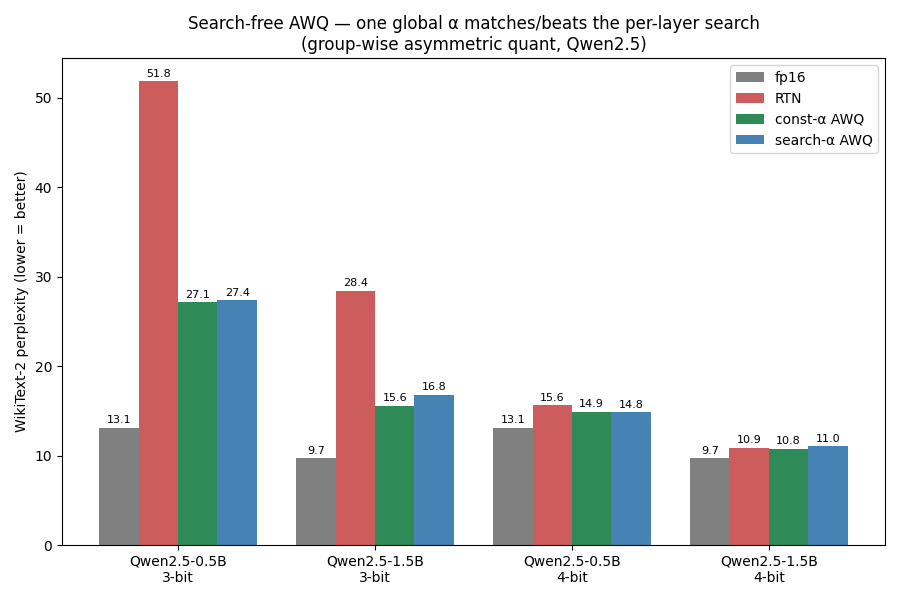
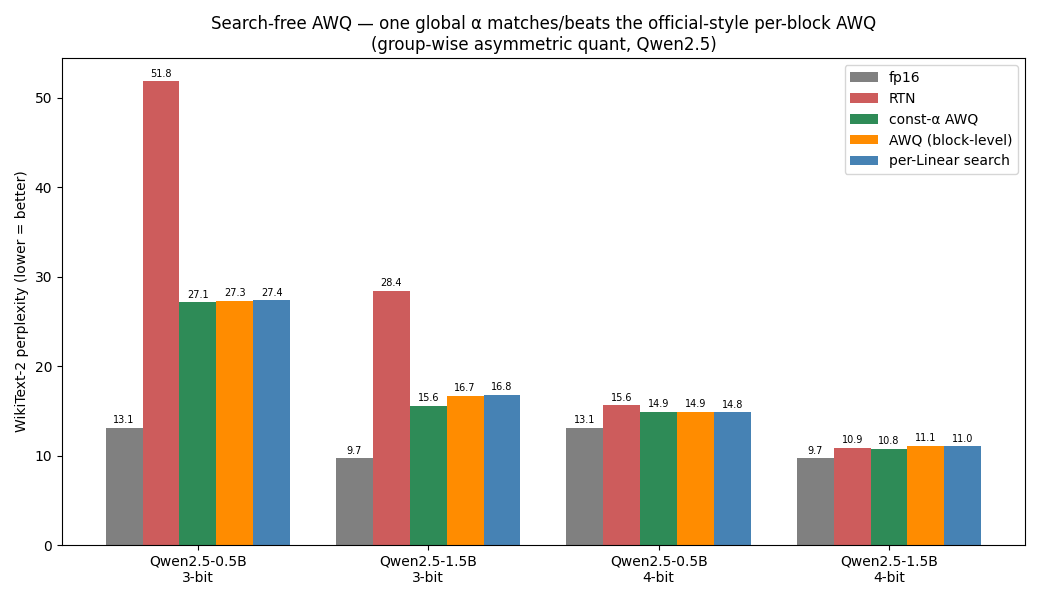
Add faithful block-level AWQ; const-α matches/beats it on perplexity
Since the official llm-awq repo's scale search miscomputes on Qwen2.5 + current
transformers (its standalone-submodule forward is brittle across versions; its
RTN path does match ours, validating the quantizer), reimplement AWQ's actual
block-level grouping faithfully: one shared scaling alpha per group of linears
that read the same input (q/k/v together, gate/up together, o_proj/down_proj
each alone), argmin of the group's combined output error.

Result (WikiText-2 ppl, group-wise asymmetric, 100 windows): a single global
alpha matches or beats the official-style block-level AWQ in every config, and
clearly wins at 3-bit (1.5B: const 15.6 vs block-AWQ 16.7; 0.5B: 27.1 vs 27.3);
at 4-bit AWQ barely helps over RTN. So AWQ's per-layer/per-block scale search
buys nothing over one tuned constant alpha at the model level on these models.

diff --git a/scripts/perplexity_eval.py b/scripts/perplexity_eval.py
@@ -19,6 +19,7 @@ from __future__ import annotations
 import argparse
 import json
 import sys
+from collections import defaultdict
 from functools import partial
 from pathlib import Path
 
@@ -30,8 +31,31 @@ sys.path.insert(0, str(Path(__file__).resolve().parents[1] / "src"))
 from awq_diag.config import DiagConfig  # noqa: E402
 from awq_diag.data import get_calibration_texts  # noqa: E402
 from awq_diag.hooks import ActivationCollector, AWQErrorCollector  # noqa: E402
-from awq_diag.model_utils import iter_block_linears, load_model_and_tokenizer, set_seed  # noqa: E402
+from awq_diag.model_utils import (  # noqa: E402
+    iter_block_linears, layer_idx_from_name, load_model_and_tokenizer, module_type_from_name, set_seed)
 from awq_diag.quant import awq_channel_scales, awq_dequant_weight, pseudo_quantize_groupwise  # noqa: E402
+
+# official AWQ shares ONE scale per group of linears that read the same input
+_GROUP = {"q_proj": "attn_in", "k_proj": "attn_in", "v_proj": "attn_in", "o_proj": "attn_out",
+          "gate_proj": "mlp_in", "up_proj": "mlp_in", "down_proj": "mlp_out"}
+
+
+def block_group_alpha(acc: dict, bit: int, alphas) -> dict:
+    """Faithful (block-level) AWQ alpha: one shared alpha per (layer, group), where q/k/v share an
+    input and gate/up share an input. Argmin of the group's summed output error — the official
+    grouping, but using each group's combined linear-output error (robust, no standalone attention).
+    """
+    groups = defaultdict(list)
+    for name in acc:
+        groups[(layer_idx_from_name(name), _GROUP.get(module_type_from_name(name), name))].append(name)
+    out = {}
+    for members in groups.values():
+        errs = {a: sum(acc[m][bit][a][0] for m in members) / max(sum(acc[m][bit][a][1] for m in members), 1e-12)
+                for a in alphas}
+        a_star = min(errs, key=errs.get)
+        for m in members:
+            out[m] = a_star
+    return out
 
 
 @torch.no_grad()
@@ -50,15 +74,15 @@ def eval_ppl(model, enc, device, seq_len=2048, max_windows=None) -> float:
 
 
 @torch.no_grad()
-def quantize_model(model, act_scales, bit, gs, strategy, best_alpha=None, const_alpha=None):
+def quantize_model(model, act_scales, bit, gs, alpha_map=None):
+    """alpha_map=None -> plain RTN; else AWQ-scale each linear by its alpha (per-name)."""
     quantizer = partial(pseudo_quantize_groupwise, group_size=gs, zero_point=True)
     for name, module in iter_block_linears(model):
         Wf = module.weight.data.float()
-        if strategy == "rtn":
+        if alpha_map is None:
             Wq = quantizer(Wf, bit)
         else:
-            a = const_alpha if strategy == "const_awq" else best_alpha[name]
-            s = awq_channel_scales(act_scales[name].to(Wf.device), a)
+            s = awq_channel_scales(act_scales[name].to(Wf.device), alpha_map[name])
             Wq = awq_dequant_weight(Wf, bit, s, quantizer=quantizer)
         module.weight.data.copy_(Wq.to(module.weight.dtype))
 
@@ -119,29 +143,30 @@ def main() -> None:
         for n, m in iter_block_linears(model):
             m.weight.data.copy_(orig[n].to(m.weight.device, m.weight.dtype))
 
+    const_map = {n: const_alpha for n in best_alpha}
+    block_alpha = block_group_alpha(awq.acc, args.bit, alphas)   # faithful block-level AWQ
+
     print("[4/5] evaluating perplexity per strategy ...")
     results = {}
-    strategies = ["fp16", "rtn", "const_awq", "search_awq"]
+    amaps = {"rtn": None, "const_awq": const_map, "block_awq": block_alpha, "search_awq": best_alpha}
+    strategies = ["fp16", "rtn", "const_awq", "block_awq", "search_awq"]
     for strat in strategies:
         restore()
         if strat != "fp16":
-            quantize_model(model, act_scales, args.bit, args.group_size, strat,
-                           best_alpha=best_alpha, const_alpha=const_alpha)
-        ppl = eval_ppl(model, enc, device, args.seq_len, args.max_windows)
-        results[strat] = ppl
-        print(f"      {strat:<12} ppl = {ppl:.3f}")
+            quantize_model(model, act_scales, args.bit, args.group_size, amaps[strat])
+        results[strat] = eval_ppl(model, enc, device, args.seq_len, args.max_windows)
+        print(f"      {strat:<12} ppl = {results[strat]:.3f}")
     restore()
 
     fp16, rtn = results["fp16"], results["rtn"]
-    # how much of search-AWQ's ppl recovery does const-alpha capture? only meaningful when the
-    # per-layer search actually helps over RTN (denominator > ~noise).
-    denom = rtn - results["search_awq"]
+    # how much of faithful block-AWQ's ppl recovery does const-alpha capture? (vs RTN baseline)
+    denom = rtn - results["block_awq"]
     captures = (rtn - results["const_awq"]) / denom * 100 if denom > 0.1 else None
     summary = {
         "model": args.model, "bit": args.bit, "group_size": args.group_size,
         "const_alpha": const_alpha, "ppl": results,
-        "search_helps_over_rtn": bool(denom > 0.1),
-        "const_captures_pct": (round(float(captures), 1) if captures is not None else None),
+        "awq_helps_over_rtn": bool(denom > 0.1),
+        "const_captures_block_awq_pct": (round(float(captures), 1) if captures is not None else None),
     }
     out = Path(__file__).resolve().parents[1] / "results"
     out.mkdir(exist_ok=True)
@@ -153,11 +178,11 @@ def main() -> None:
     for s in strategies:
         print(f"  {s:<12} {results[s]:>9.3f} {results[s]-fp16:>+12.3f}")
     if captures is not None:
-        print(f"\n  const-α AWQ captures {captures:.0f}% of search-AWQ's ppl recovery over RTN "
-              f"(const α={const_alpha}); const {'≤' if results['const_awq']<=results['search_awq'] else '>'} search")
+        print(f"\n  const-α AWQ captures {captures:.0f}% of faithful block-AWQ's recovery over RTN "
+              f"(const α={const_alpha}); const-α {'≤' if results['const_awq']<=results['block_awq'] else '>'} block-AWQ")
     else:
-        print(f"\n  at {args.bit}-bit the per-layer search barely helps over RTN "
-              f"(rtn {rtn:.2f} vs search {results['search_awq']:.2f}); const α={const_alpha}")
+        print(f"\n  at {args.bit}-bit AWQ barely helps over RTN (rtn {rtn:.2f} vs "
+              f"block-AWQ {results['block_awq']:.2f}); const α={const_alpha}")
 
 
 if __name__ == "__main__":

diff --git a/scripts/plot_perplexity.py b/scripts/plot_perplexity.py
@@ -17,7 +17,8 @@ import numpy as np
 
 REPO = Path(__file__).resolve().parents[1]
 _STRATS = [("fp16", "fp16", "gray"), ("rtn", "RTN", "indianred"),
-           ("const_awq", "const-α AWQ", "seagreen"), ("search_awq", "search-α AWQ", "steelblue")]
+           ("const_awq", "const-α AWQ", "seagreen"), ("block_awq", "AWQ (block-level)", "darkorange"),
+           ("search_awq", "per-Linear search", "steelblue")]
 
 
 def main() -> None:
@@ -27,17 +28,18 @@ def main() -> None:
     data.sort(key=lambda d: (d["bit"], d["model"]))
     labels = [f"{d['model'].split('/')[-1]}\n{d['bit']}-bit" for d in data]
     x = np.arange(len(data))
-    w = 0.2
+    n = len(_STRATS)
+    w = 0.8 / n
 
-    fig, ax = plt.subplots(figsize=(max(9, 2.2 * len(data)), 6))
+    fig, ax = plt.subplots(figsize=(max(10, 2.6 * len(data)), 6))
     for i, (key, name, color) in enumerate(_STRATS):
-        vals = [d["ppl"][key] for d in data]
-        bars = ax.bar(x + (i - 1.5) * w, vals, w, label=name, color=color)
-        ax.bar_label(bars, fmt="%.1f", fontsize=8, padding=2)
+        vals = [d["ppl"].get(key, float("nan")) for d in data]
+        bars = ax.bar(x + (i - (n - 1) / 2) * w, vals, w, label=name, color=color)
+        ax.bar_label(bars, fmt="%.1f", fontsize=7, padding=2)
     ax.set_xticks(x)
     ax.set_xticklabels(labels)
     ax.set_ylabel("WikiText-2 perplexity (lower = better)")
-    ax.set_title("Search-free AWQ — one global α matches/beats the per-layer search\n"
+    ax.set_title("Search-free AWQ — one global α matches/beats the official-style per-block AWQ\n"
                  "(group-wise asymmetric quant, Qwen2.5)")
     ax.legend()
     fig.tight_layout()